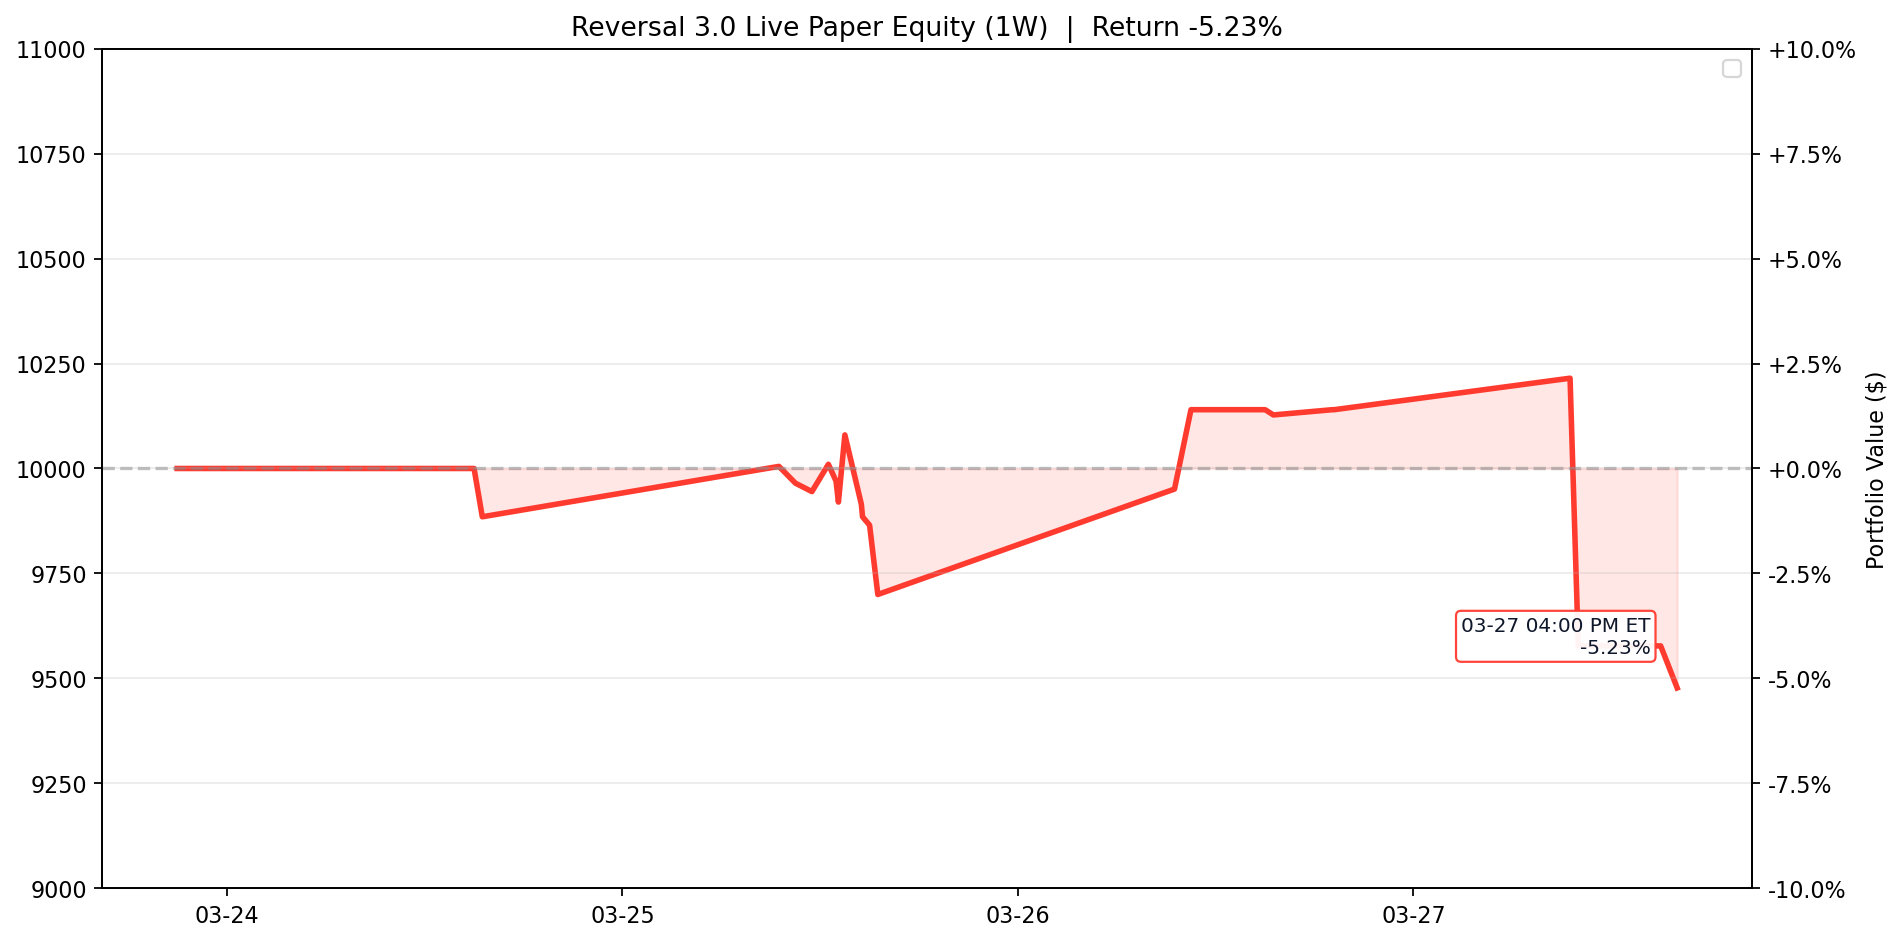
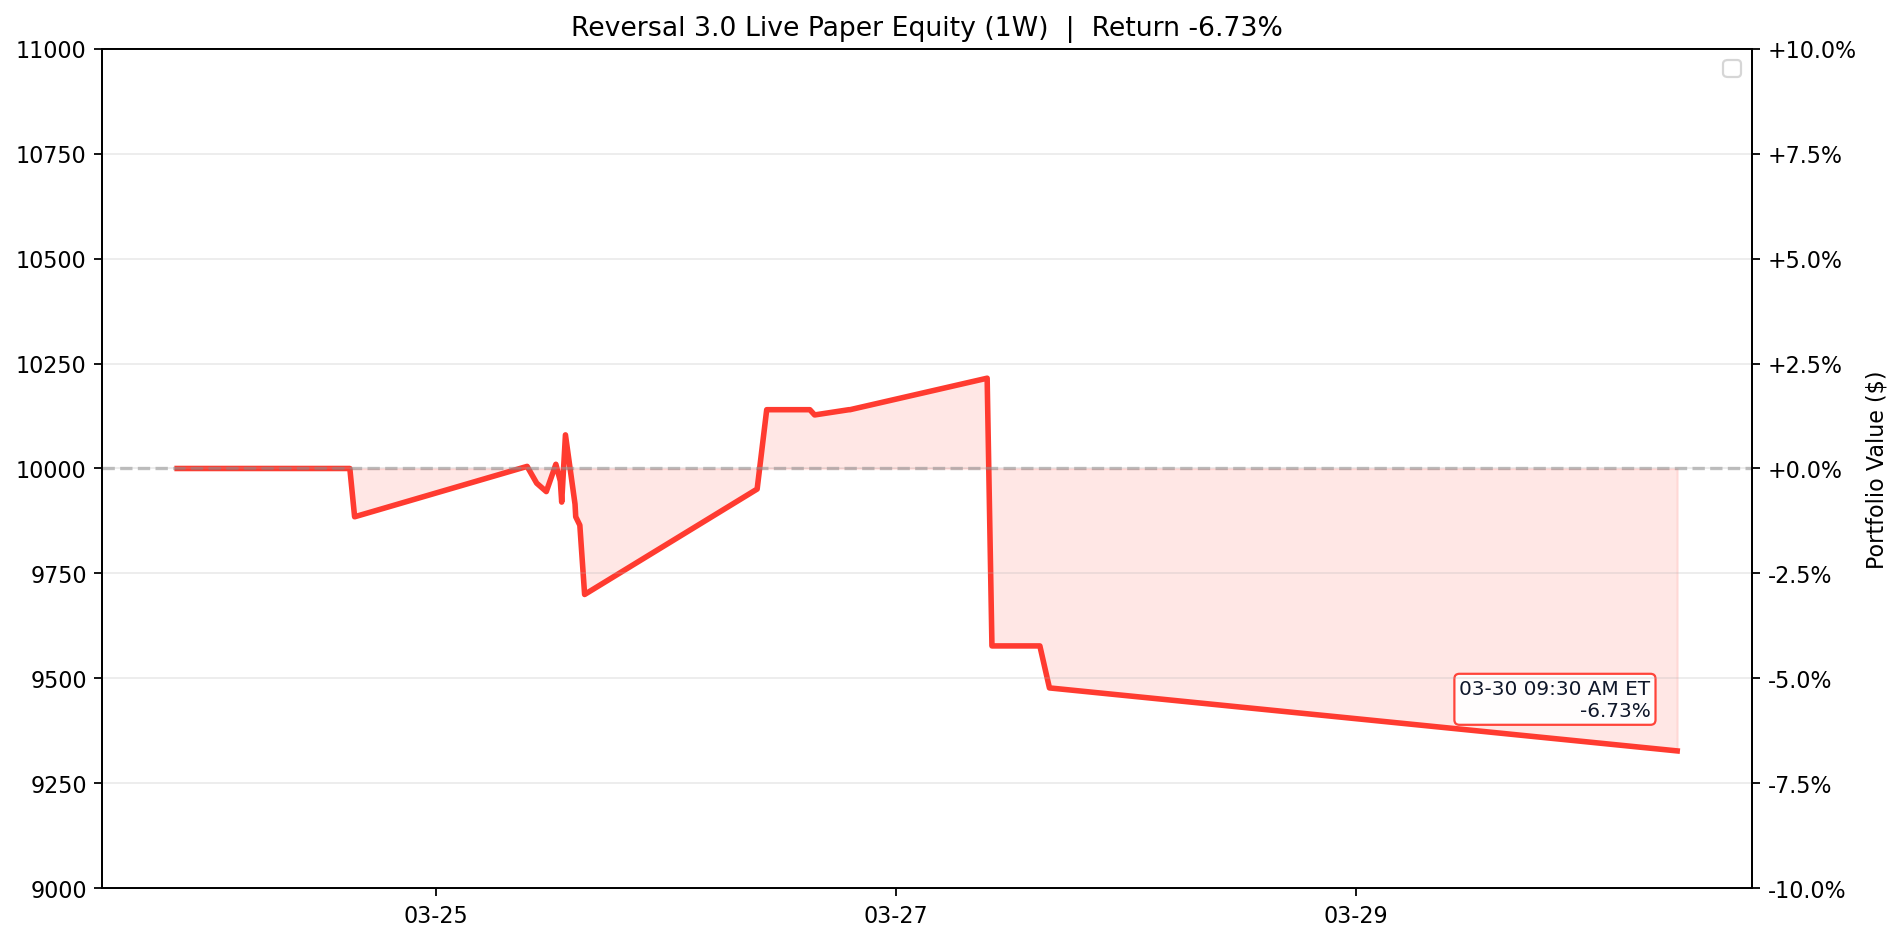
Update Reversal 3.0 live paper test 2026-03-30 09:30 ET

diff --git a/results/reversal_3_0_live/README.md b/results/reversal_3_0_live/README.md
@@ -1,7 +1,7 @@
 # Reversal 3.0 Live Paper Test
 
-Last updated (ET): `2026-03-27 16:00:06 EDT`
-Last processed slot: `manage_1600`
+Last updated (ET): `2026-03-30 09:30:00 EDT`
+Last processed slot: `manage_0930`
 
 ## Active Configuration
 
@@ -20,41 +20,38 @@ Last processed slot: `manage_1600`
 ## Portfolio Snapshot
 
 - Cash: `$4,977.50`
-- Equity: `$9,477.50`
+- Equity: `$9,327.50`
 - Realized PnL: `$-422.50`
-- Unrealized PnL: `$-100.00`
+- Unrealized PnL: `$-250.00`
 - Open positions: `1`
 
 ## Open Positions
 
 ```text
 ticker    contract_symbol entry_trade_date  business_days_held  entry_option_price  current_option_price  entry_spot  current_spot  unrealized_pnl  unrealized_return_pct  success_rate  matched_signals  current_drop_pct  entry_iv_pct  current_iv_pct  rolling_sigma_20d_pct
-   HON HON260501C00225000       2026-03-27                   0                 9.2                   9.0      223.64        223.12          -100.0                  -2.17         100.0               20              0.68         39.47            38.9                  24.88
+   HON HON260501C00225000       2026-03-27                   1                 9.2                   8.7      223.64        225.17          -250.0                  -5.43         100.0               20              0.68         39.47             0.0                  24.88
 ```
 
-## Today's Closed Trades (2026-03-27)
+## Today's Closed Trades (2026-03-30)
 
-```text
-ticker     contract_symbol entry_trade_date_et exit_trade_date_et  entry_option_price  exit_option_price    pnl  return_pct           exit_reason
-  ABNB ABNB260515C00130000          2026-03-26         2026-03-27                9.85              8.725 -562.5   -11.42132 stop_loss_hit_at_scan
-```
+_None_
 
 ## Current Screener Snapshot
 
 ```text
 ticker  success_rate_%  matched_signals  current_drop_%  target_rebound_$  target_price  rolling_sigma_20d_%  call_candidate
-   HON          100.00               17            0.91              1.43        224.56                24.88            True
-   STX           94.74               38            0.74              1.95        377.95                75.37            True
-  NVDA           93.75               16            2.24              2.69        170.09                31.98            True
-  INTC           93.10               29            2.13              0.66         43.82                64.25            True
-  CDNS           90.00               10            3.15              6.20        277.96                23.06            True
-  REGN           90.00               10            2.51             13.31        751.02                28.18            True
-  GILD           90.00               10            1.92              1.84        136.09                19.20            True
-  AVGO           87.50               16            2.82              6.11        306.79                38.20            True
- CMCSA           85.71               21            1.36              0.27         28.60                27.69            True
-   LIN           85.71               14            0.88              3.06        494.18                19.13            True
-  PLTR           85.00               20            3.05              3.15        146.21                48.38            True
-  MRVL           85.00               20            2.87              1.96         96.84                74.63            True
+  NFLX           91.67               36            0.79              0.52         93.21                21.54            True
+    MU           91.43               35            0.79              1.98        356.22                71.54            True
+  MPWR           88.89               36            0.90              6.64       1050.17                45.59            True
+  DXCM           94.23               52            0.16              0.07         62.22                32.07           False
+  PLTR           90.91               44            0.19              0.19        142.98                49.53           False
+  VRTX           87.50               48            0.13              0.41        432.90                41.30           False
+  SHOP           87.50               48            0.07              0.05        111.83                50.38           False
+   APP           84.44               45            0.21              0.57        380.96                72.26           False
+  BKNG           72.73               11            3.28             96.78       4172.28                42.16           False
+   ADI           63.64               11            1.91              4.19        311.63                32.30           False
+  ALNY           62.50                8            3.29              7.56        324.92                34.26           False
+  ADSK           60.00               10            4.17              6.99        236.83                29.12           False
 ```
 
 ## Recent Events

diff --git a/README.md b/README.md
@@ -3,15 +3,15 @@
 <!-- reversal-3.0-live:start -->
 ## Reversal 3.0 Live Paper Test
 
-- Last updated (ET): `2026-03-27 16:00:06 EDT`
-- Equity: `$9,477.50` | Realized: `$-422.50` | Unrealized: `$-100.00` | Open positions: `1`
-- Today closed trades: `1`
-- Current slot: `manage_1600`
+- Last updated (ET): `2026-03-30 09:30:00 EDT`
+- Equity: `$9,327.50` | Realized: `$-422.50` | Unrealized: `$-250.00` | Open positions: `1`
+- Today closed trades: `0`
+- Current slot: `manage_0930`
 - Chart: trailing `1W` with ET timestamps
 
 ```text
 ticker    contract_symbol  current_option_price  unrealized_pnl  unrealized_return_pct  business_days_held
-   HON HON260501C00225000                   9.0          -100.0                  -2.17                   0
+   HON HON260501C00225000                   8.7          -250.0                  -5.43                   1
 ```
 
 ![Reversal 3.0 Live Equity 1W](assets/reversal_3_0_live_equity.png)
